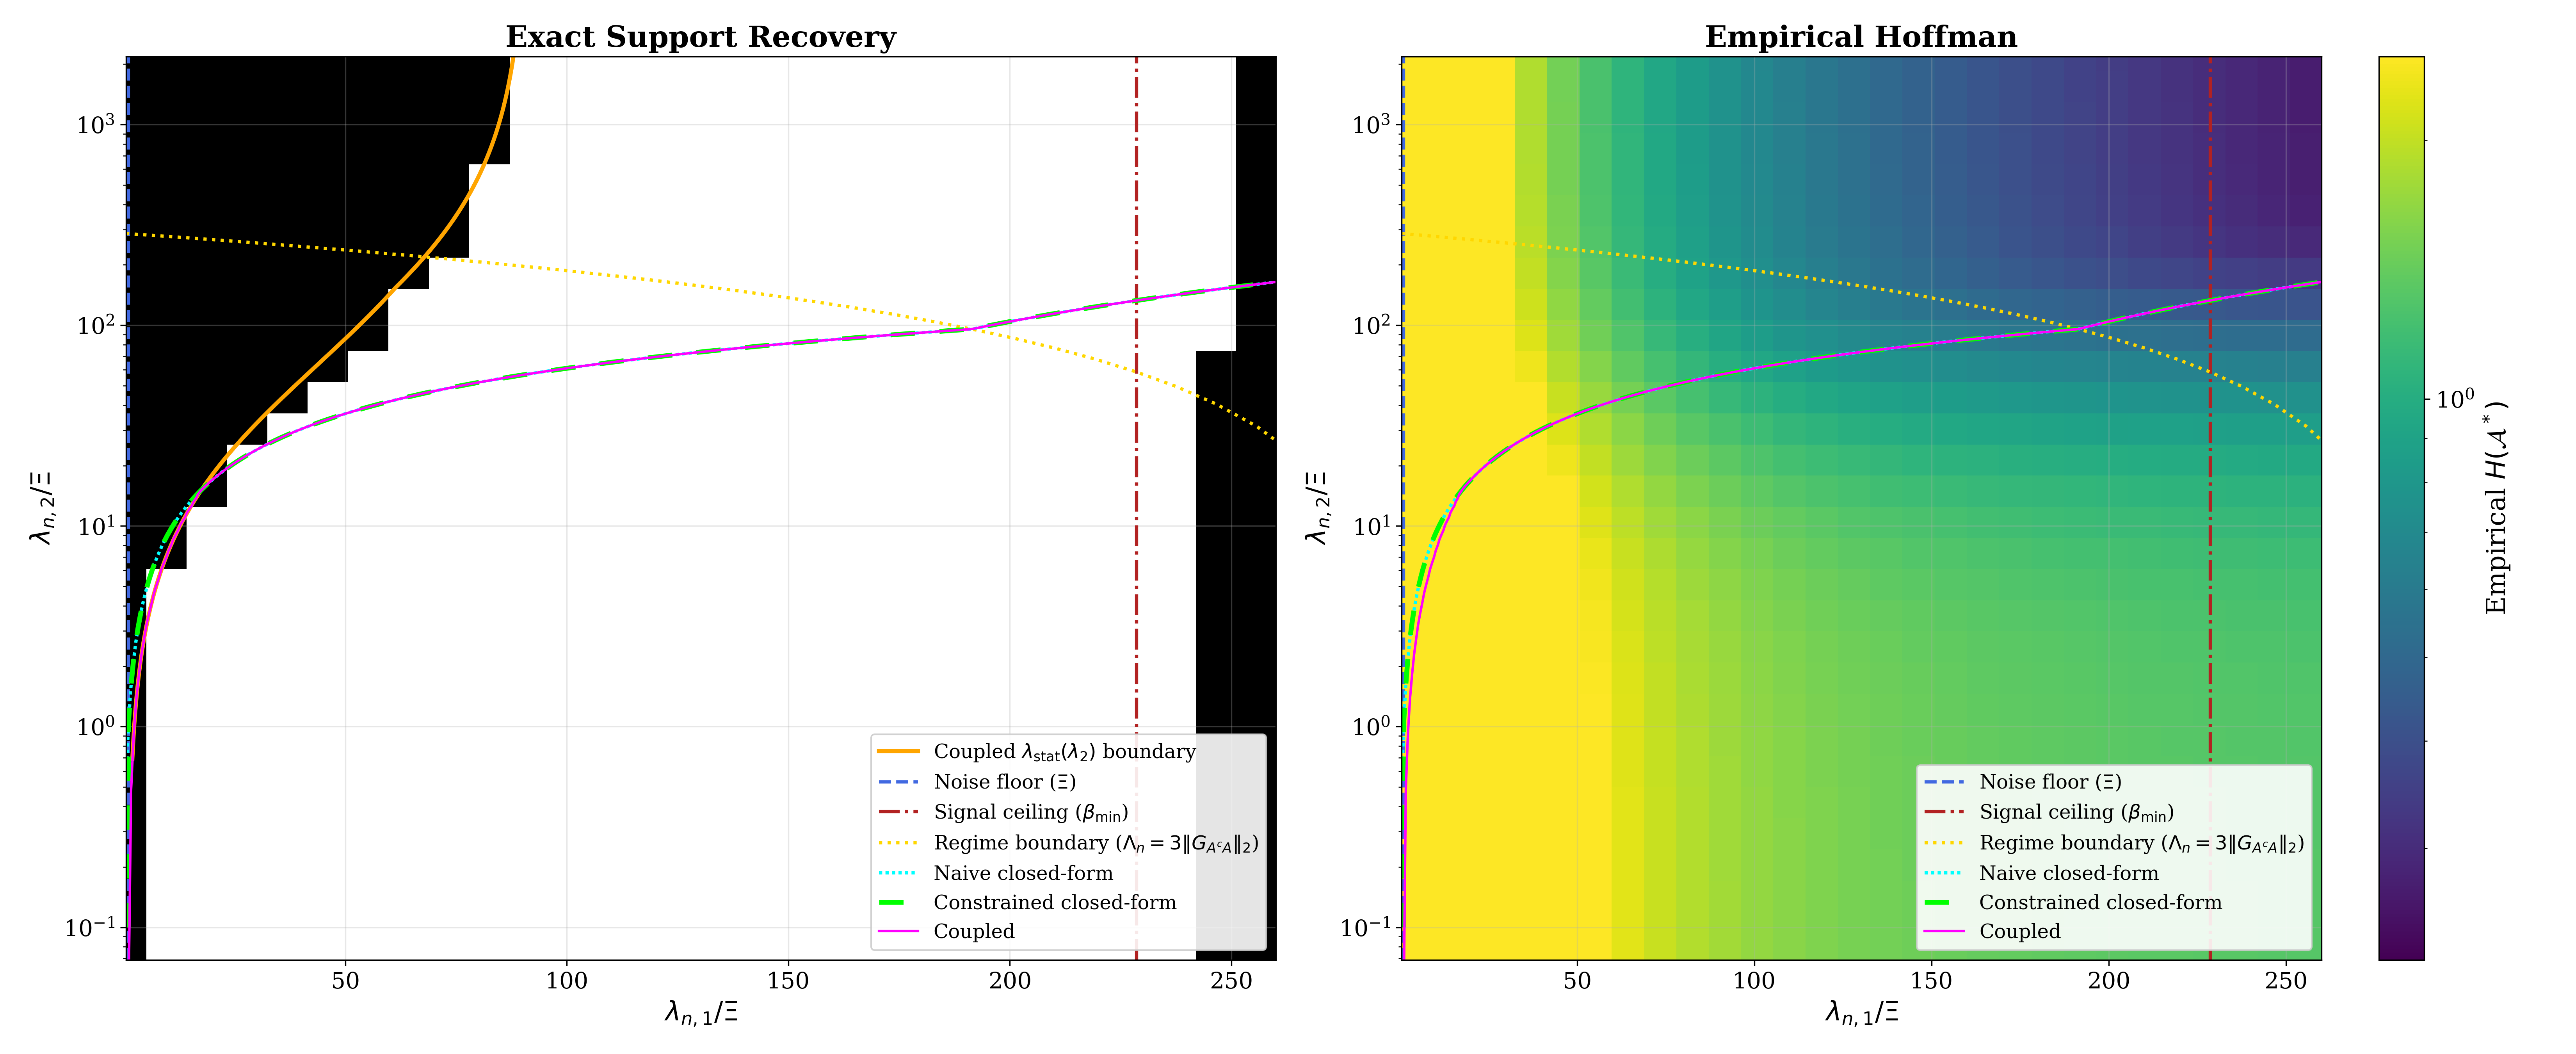
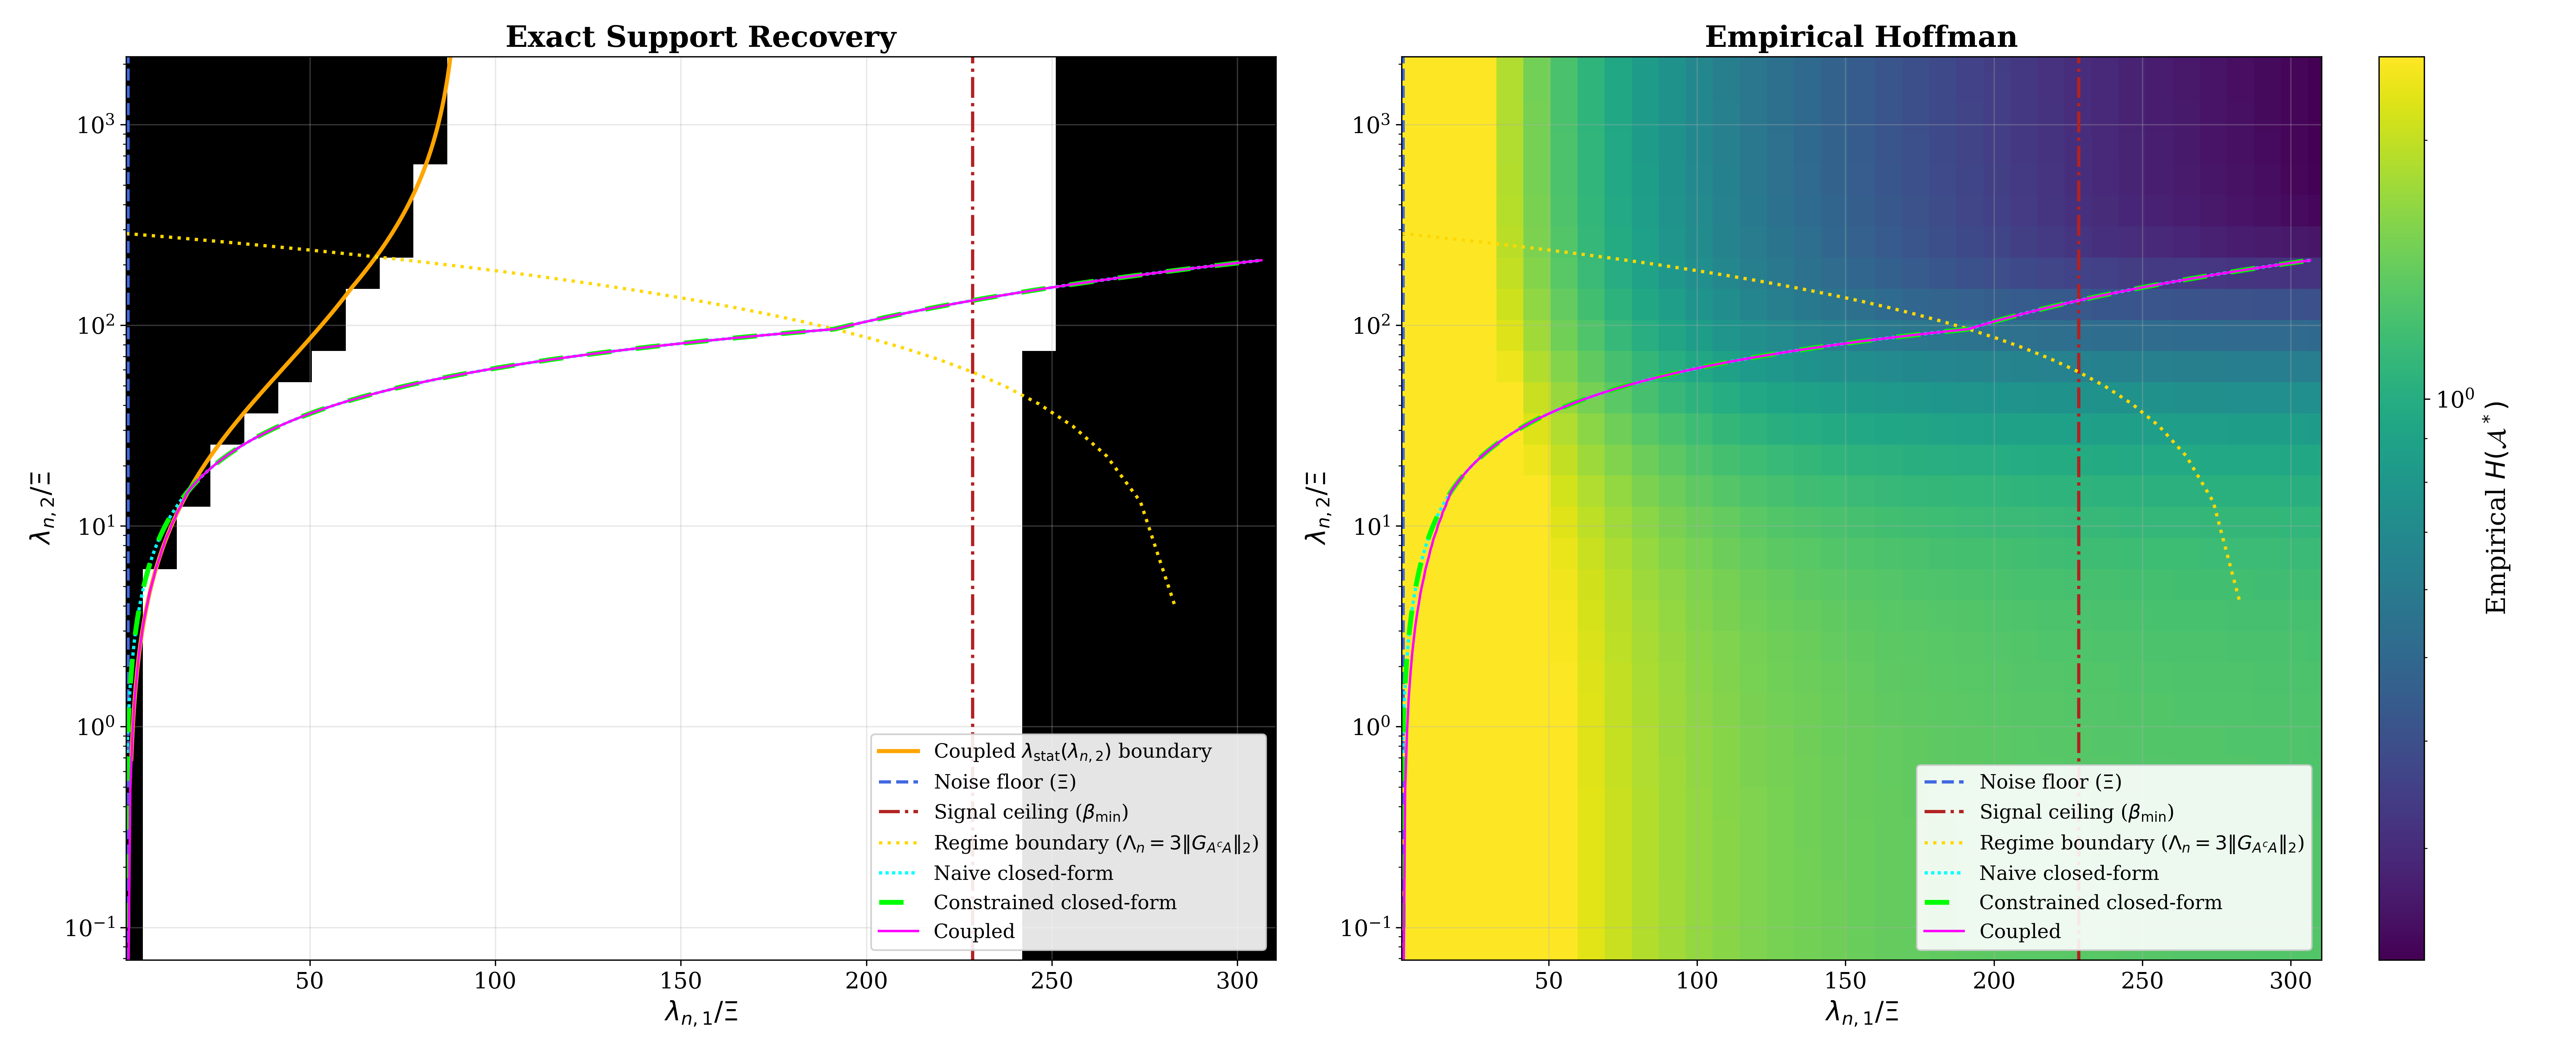
fix notation in elastic net hyperparam exp

diff --git a/experiments/hoffman/elastic_net_hyperparameters.py b/experiments/hoffman/elastic_net_hyperparameters.py
@@ -144,7 +144,7 @@ def visualize():
         if i == 0:
             pivot = df.pivot(index='l2_r', columns='l1_r', values='recovery')
             ax.pcolormesh(l1_r, l2_r, pivot.values, cmap='Greys_r', shading='auto')
-            ax.plot(theo['stat_l1']/Xi, theo['l2_range']/Xi, color='orange', linestyle='-', linewidth=2.5, label='Coupled $\lambda_{\mathrm{stat}}(\lambda_2)$ boundary')
+            ax.plot(theo['stat_l1']/Xi, theo['l2_range']/Xi, color='orange', linestyle='-', linewidth=2.5, label='Coupled $\lambda_{\mathrm{stat}}(\lambda_{{n, 2}})$ boundary')
         else:
             pivot = df.pivot(index='l2_r', columns='l1_r', values='h_emp')
             im = ax.pcolormesh(l1_r, l2_r, pivot.values, shading='auto', 